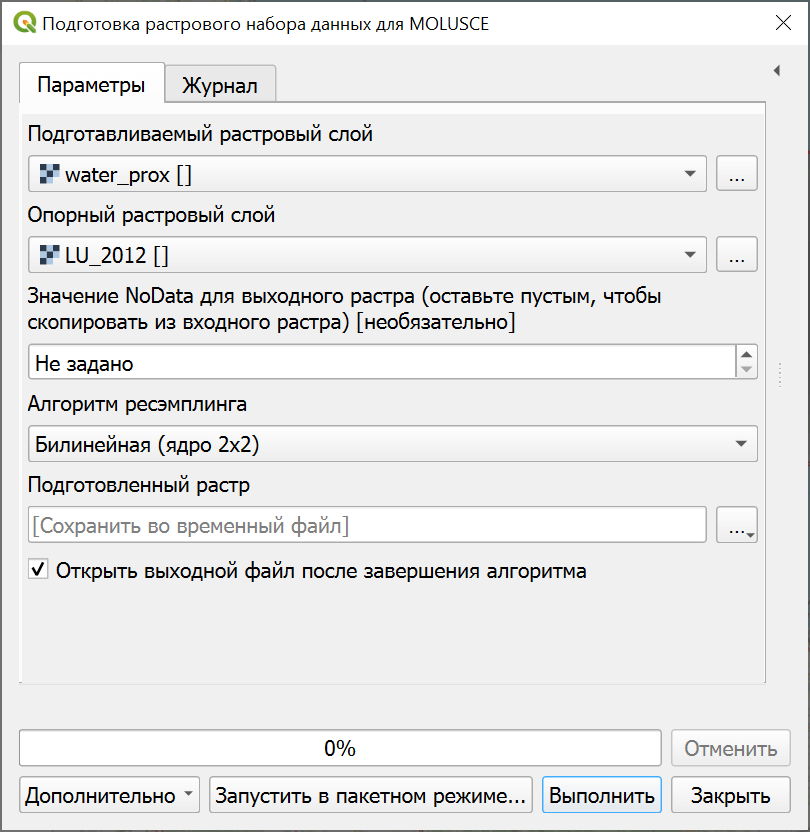
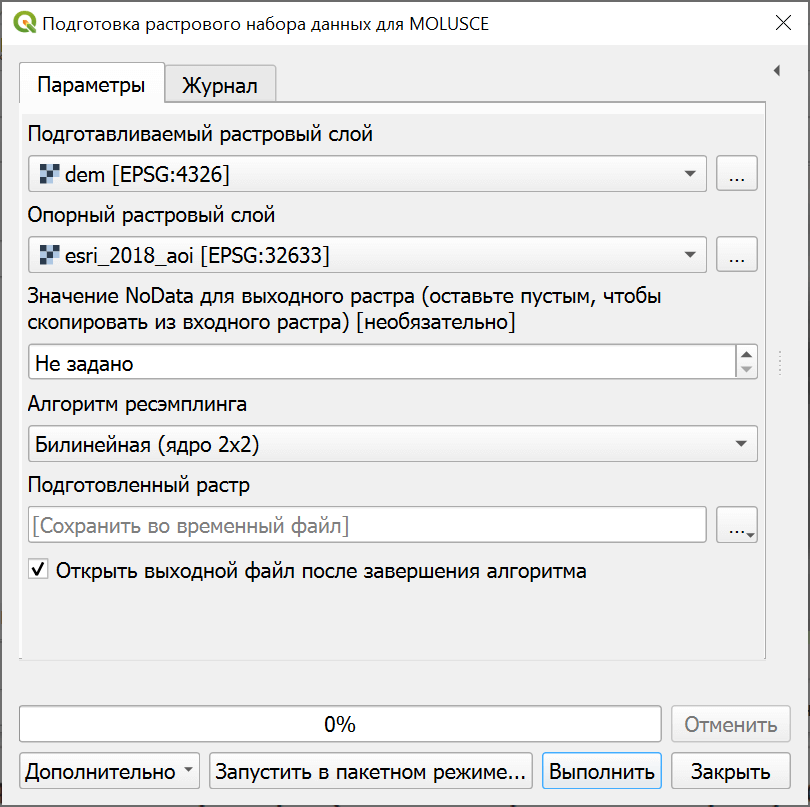
update screenshots molusce.rst

diff --git a/source/molusce.rst b/source/molusce.rst
@@ -76,7 +76,7 @@ N - глубина прогноза, которая измеряется в за
 Дополнительно можно задать значение NoData для выходного растра. Оставьте это поле пустым, чтобы скопировать из входного растра.
 
 .. figure:: _static/molusce_prepare_raster_ru.png
-   :name: molusce_prepare_raster_ru
+   :name: molusce_prepare_raster_pic
    :align: center
    :width: 13cm
 
@@ -95,8 +95,8 @@ N - глубина прогноза, которая измеряется в за
 * Размер буферной зоны в единицах карты - если буфер не требуется, оставьте пустым;
 * Единицы измерения близости - только для режима "Близость", геопространственные единицы или пиксели.
 
-.. todo:: _static/molusce_prepare_vector_ru.png
-   :name: molusce_prepare_vector_ru
+.. figure:: _static/molusce_prepare_vector_ru.png
+   :name: molusce_prepare_vector_pic
    :align: center
    :width: 13cm
 
